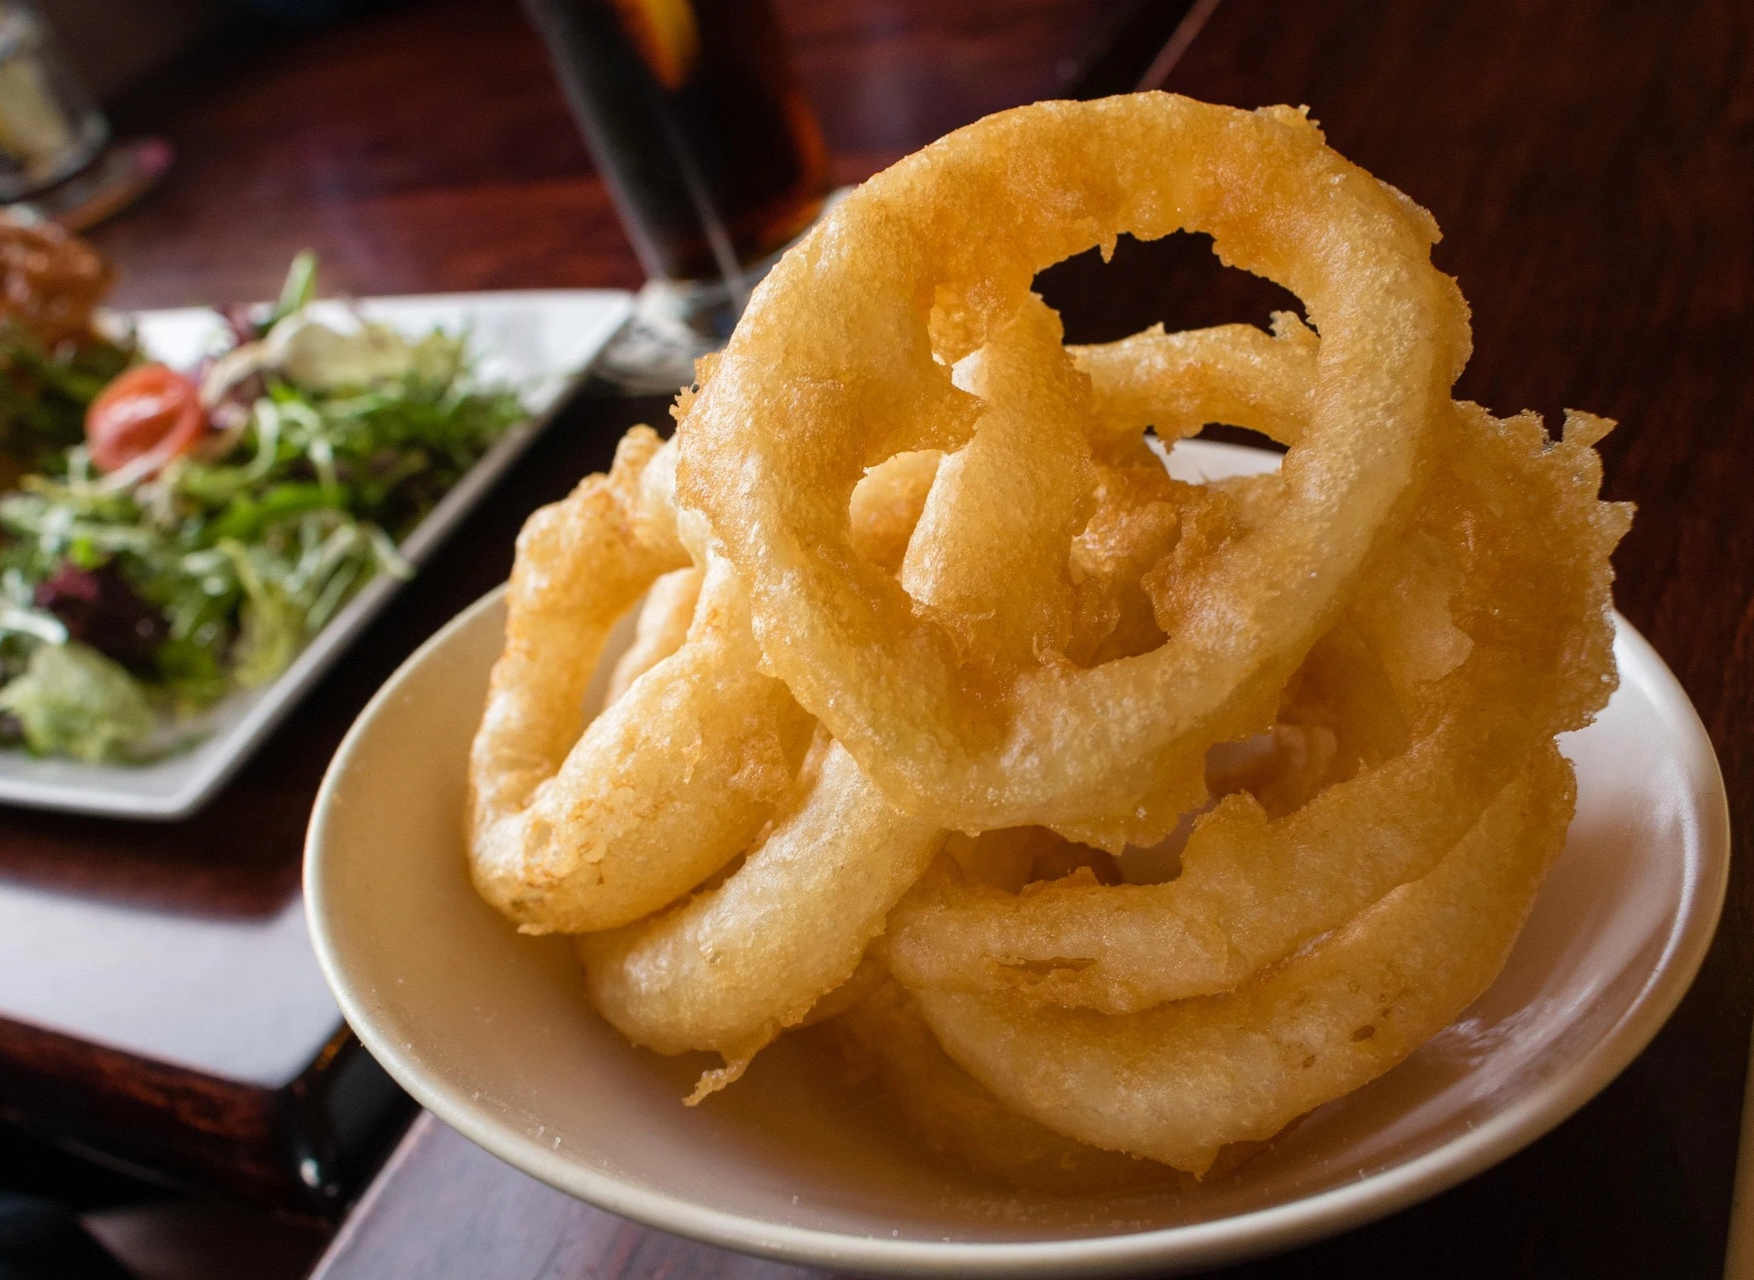
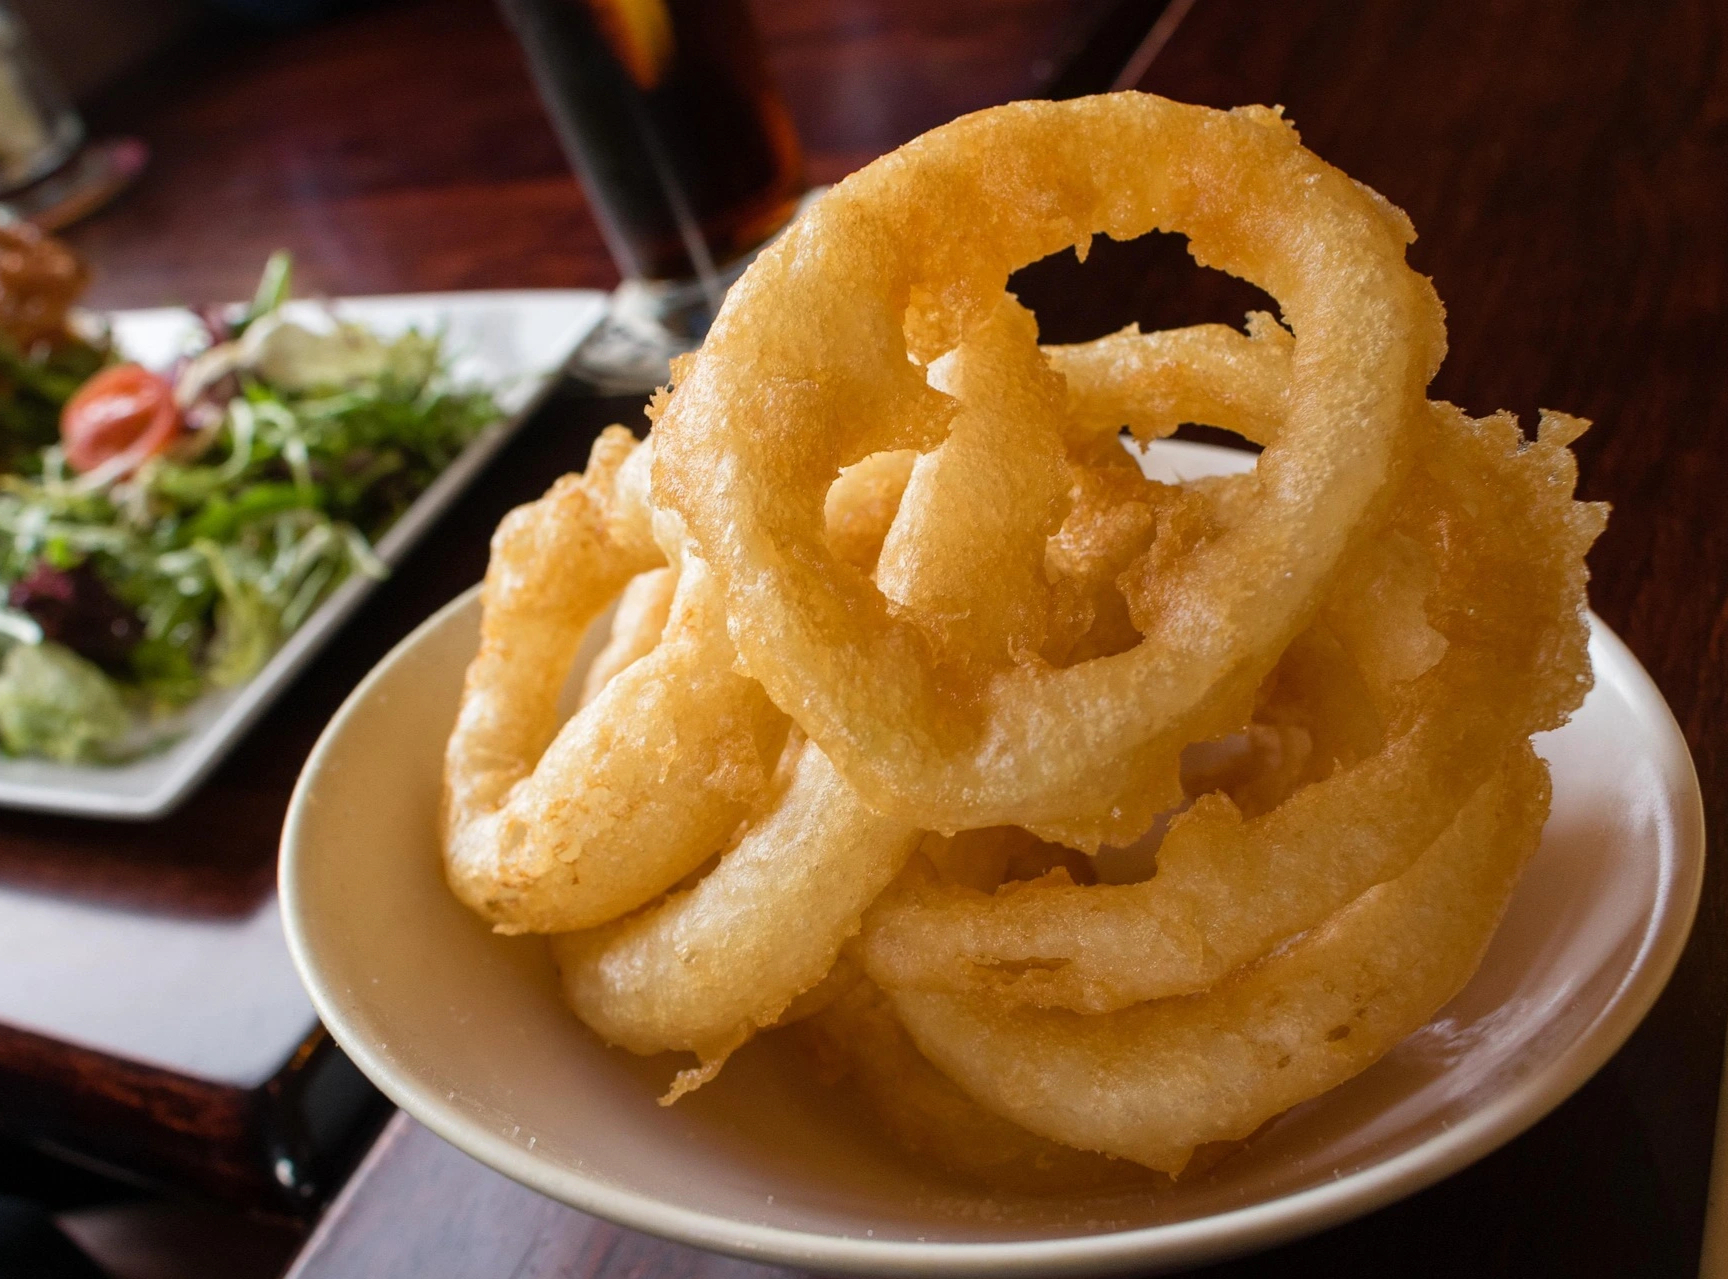
Atualiação de folter

diff --git a/src/components/Footer.tsx b/src/components/Footer.tsx
@@ -35,7 +35,7 @@ export function Footer() {
           <div>
             <h3 className="text-white font-bold mb-6 uppercase tracking-widest text-sm">Sobre Nós</h3>
             <p className="text-sm leading-relaxed">
-              A verdadeira experiência do sabor premium. Qualidade e tradição em cada pedido.
+              Hambúrgueres artesanais com blends exclusivos e ingredientes selecionados. Bateu a fome? Não passe vontade, chame no WhatsApp e garanta o melhor burger da cidade quentinho na sua casa!
             </p>
           </div>
 
@@ -51,7 +51,7 @@ export function Footer() {
           <div>
             <h3 className="text-white font-bold mb-6 uppercase tracking-widest text-sm">Contato</h3>
             <div className="space-y-3 text-sm">
-              <p>Shopping Barra, Loja 45<br/>Salvador - BA</p>
+              <p>Shopping Barra, Sua Loja<br/>Salvador - BA</p>
               {/* Alterado de text-red-600 para text-red-400 para corrigir o contraste */}
               <a href={whatsappLink} target="_blank" rel="noopener noreferrer" className="block text-red-400 font-bold hover:text-white transition-colors">
                 (75) 9933-1557
